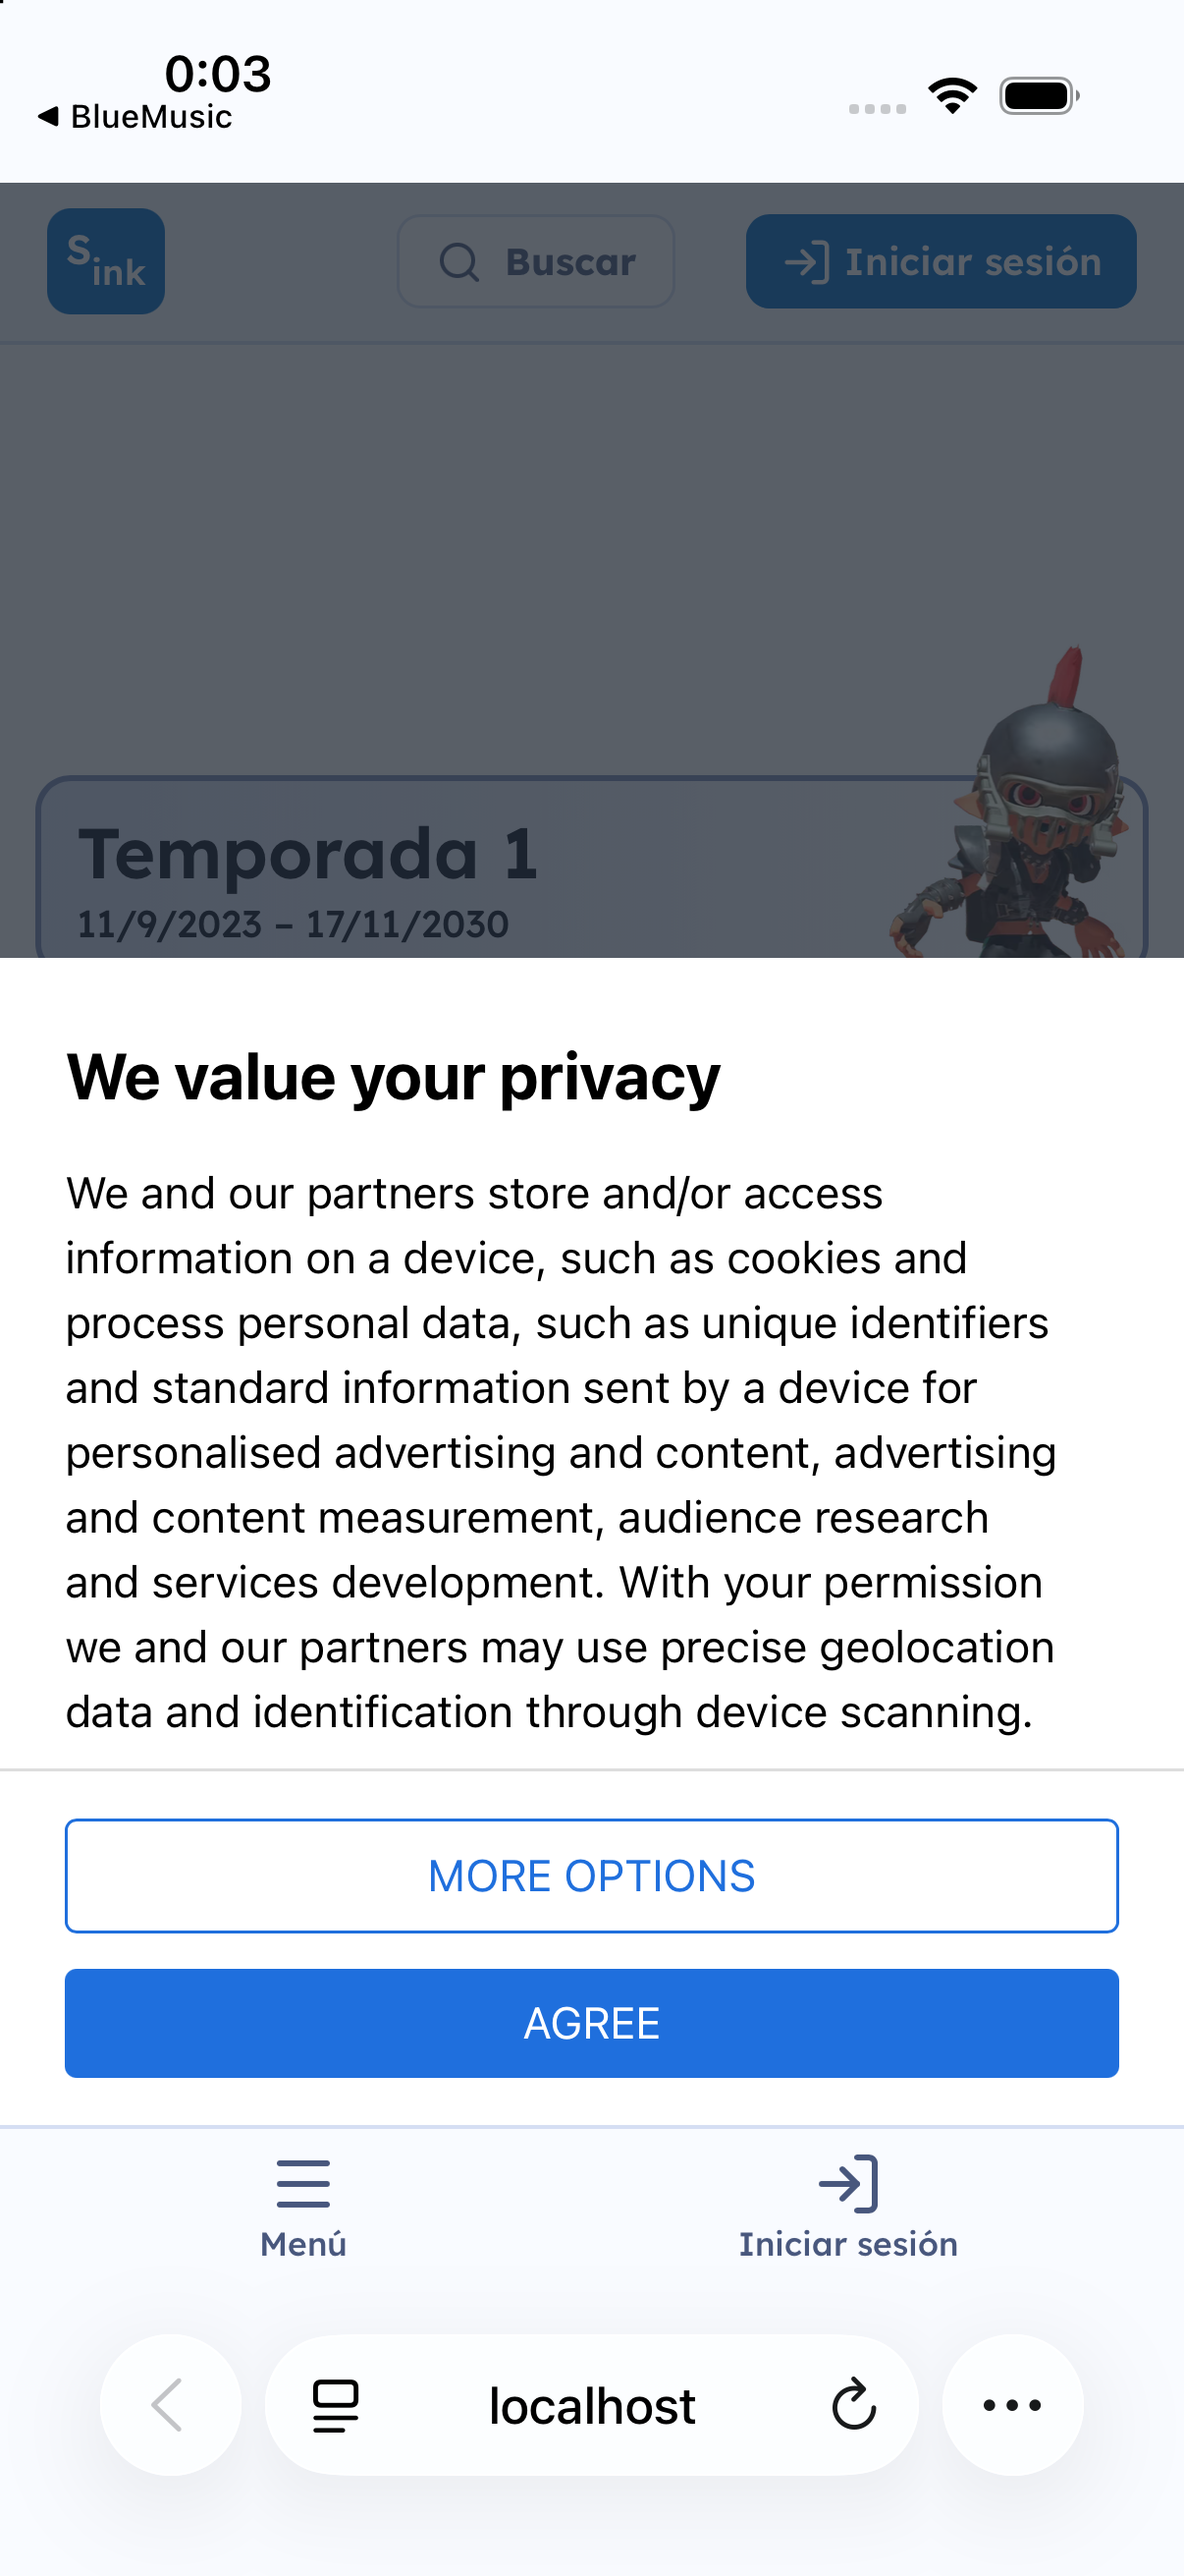
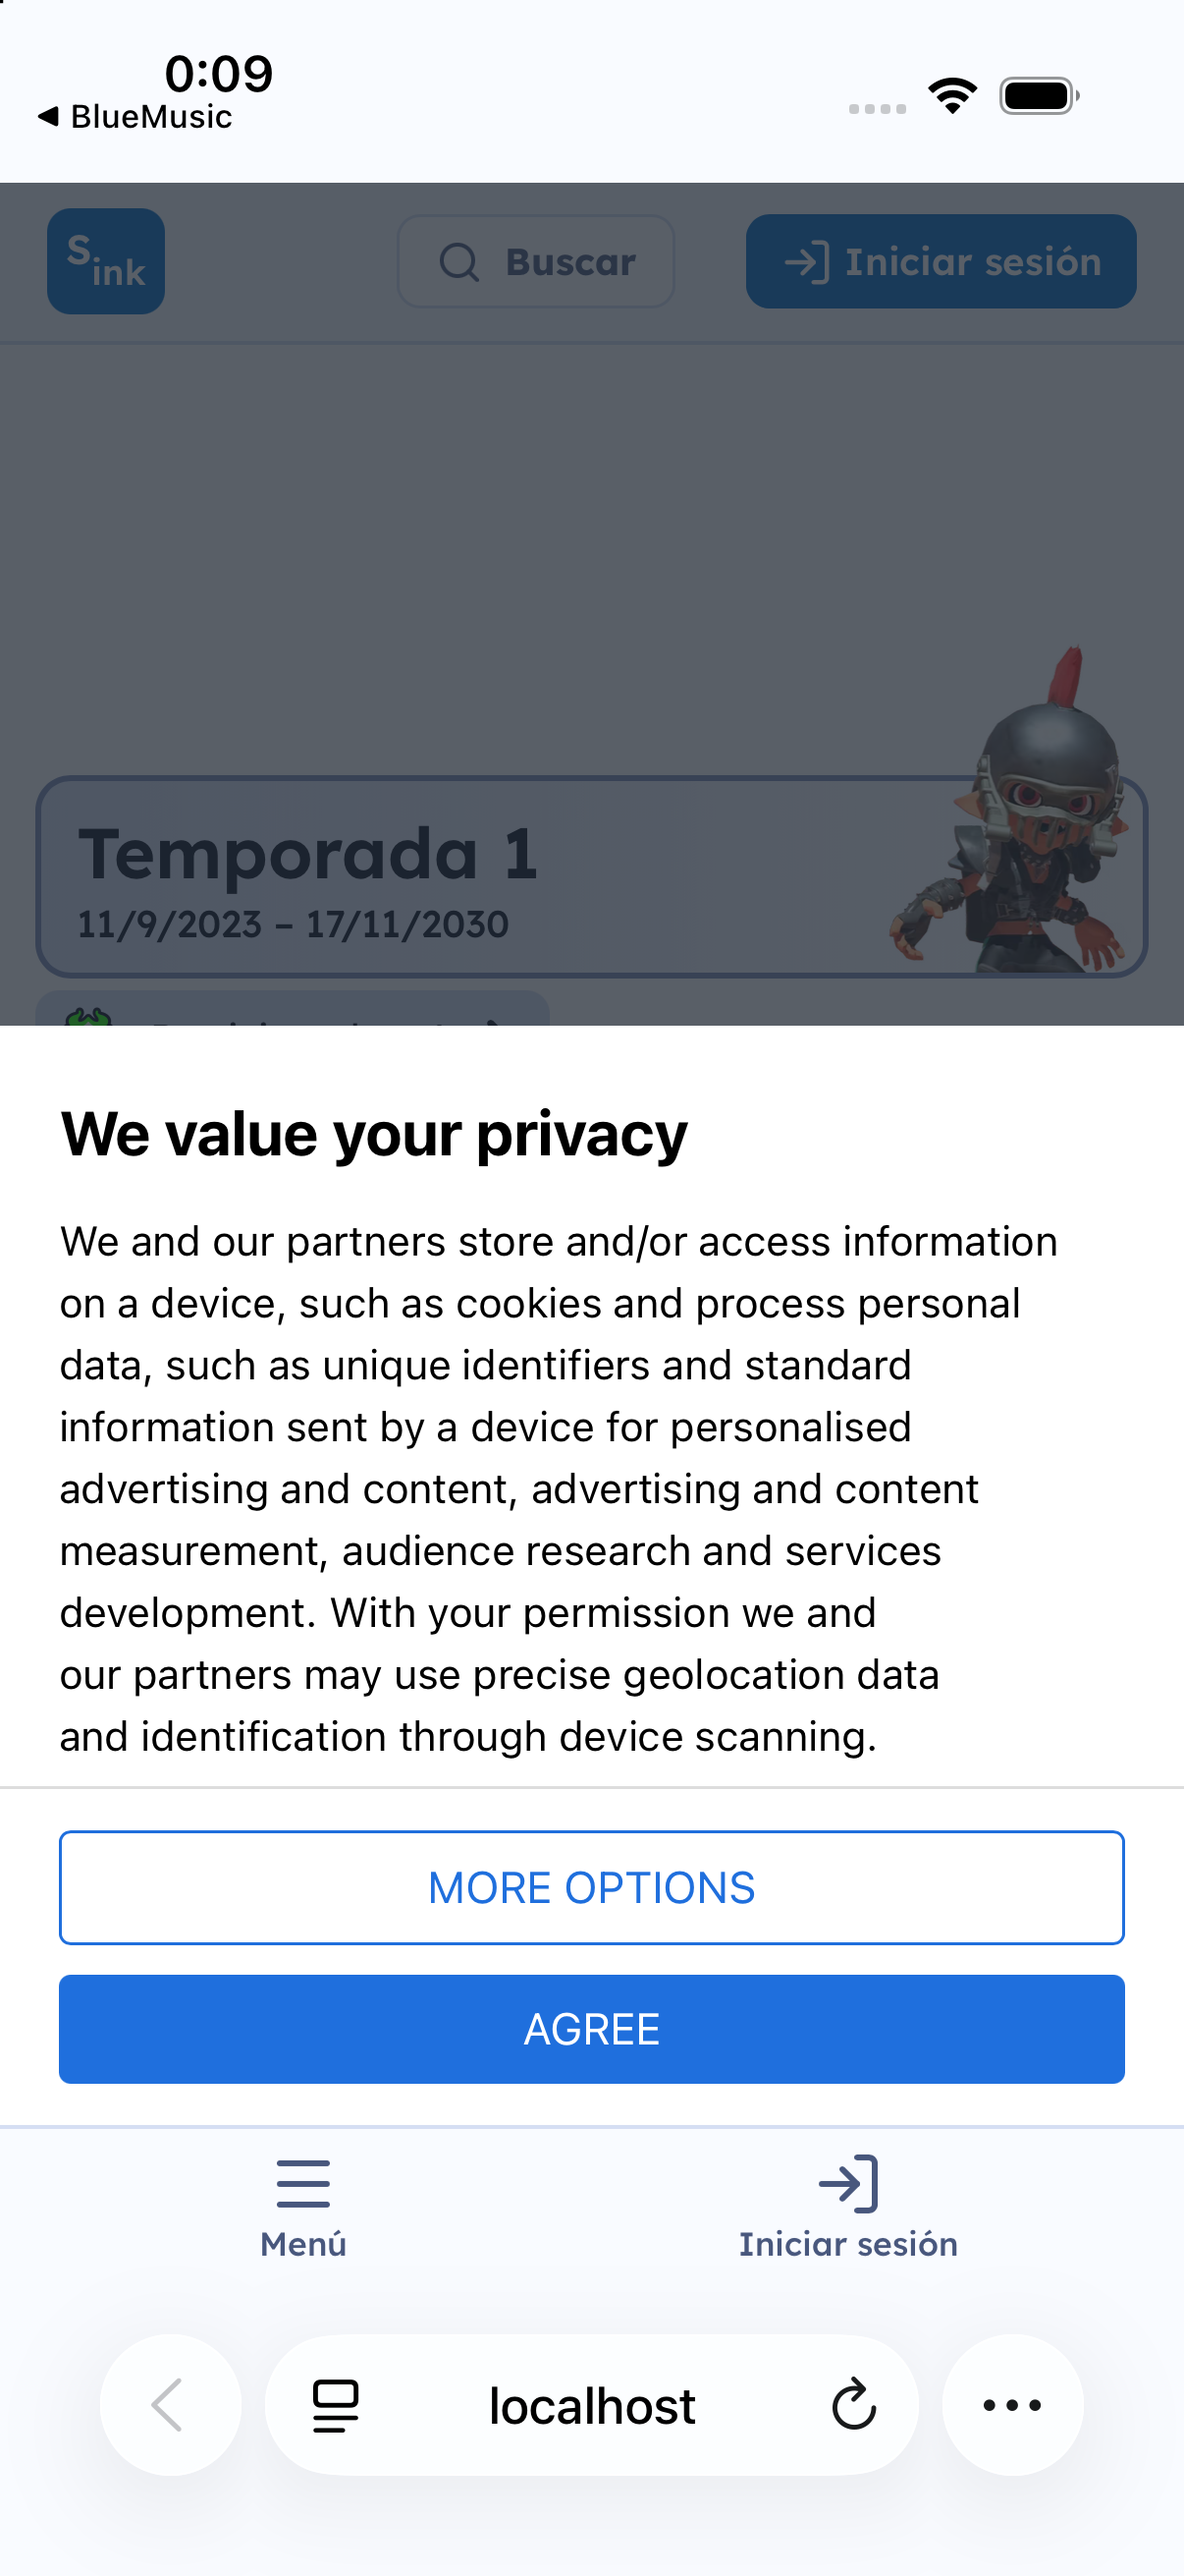
Keep one before/after pair on iOS

Changed region(s): [[0.0, 0.3707, 1.0, 0.8032]]

diff --git a/README.md b/README.md
@@ -1,6 +1,4 @@
-Screenshots for sendou-ink/sendou.ink#3398
+Screenshots for sendou-ink/sendou.ink#3397 and #3398
 
-- before.png / after.png: the live consent dialog on sendou.ink, WebKit with an iPhone 15 profile
-- ios-before.png / ios-after.png: iOS Simulator (iPhone 17 Pro, iOS 26.5) running the site locally with a stand-in for the dialog, since the consent platform only serves the real domain
-- ios-safari-real.png: the live site in iOS Safari (Simulator, iPhone 17 Pro, iOS 26.5)
-- ios-tap-opens-menu.png: tapping where the primary button is opens the nav menu instead
+- ios-safari-real.png: the live site in iOS Safari (Simulator, iPhone 17 Pro, iOS 26.5), the bug as a visitor hits it
+- ios-before.png / ios-after.png: the same Simulator with the site running locally, with a stand-in for the dialog (the consent platform only serves the real domain), without and with the fix
